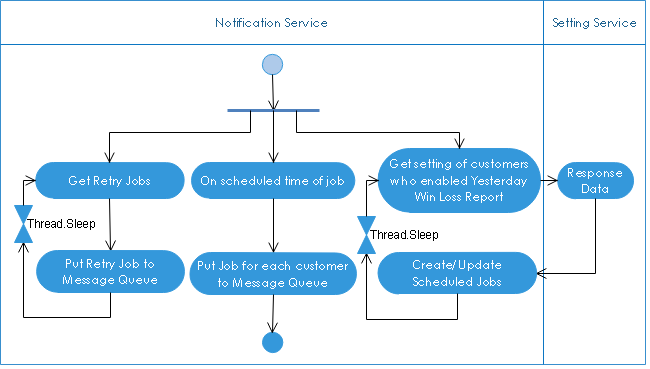
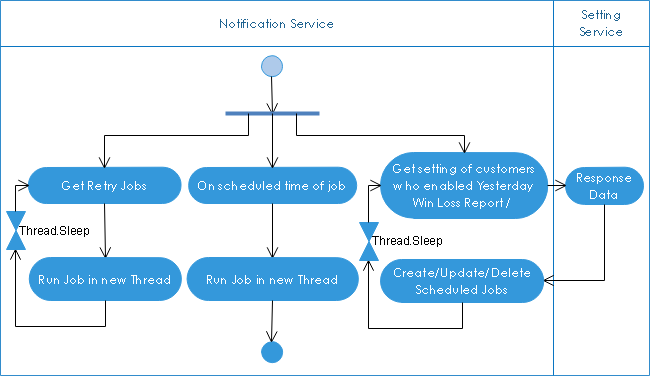
98082 - update schedule service

diff --git a/docs/bot-services/schedule-service.rst b/docs/bot-services/schedule-service.rst
@@ -20,11 +20,16 @@ This notification service collects SMA yesterday win loss and send in schedule, 
 
 Yesterday Win Loss Notification Service includes two parts: 
 
-- The first part, is background worker, collects all customer enabled yesterday win loss report setting, and schedule job to collect customer report data in queue. The first part also take responsibility to collect all retry jobs and put it in queue. 
+- The first part:
 
+    - is background worker
+    - collects all customer enabled yesterday win loss report setting, and schedule job to collect customer report data
+    - collects all retry jobs start it
+    - on schedule time, it starts job worker to collect data
+ 
 .. image:: assets/Report_Notification_Service_1.png
 
-- The second part includes multiple background workers, these workers enqueue job from message queue to compose report message then send to Letstalk Service.
+- The second part includes multiple background workers, these workers run asynchronous to collect user data.
 
 .. image:: assets/Report_Notification_Service_2.png
 
